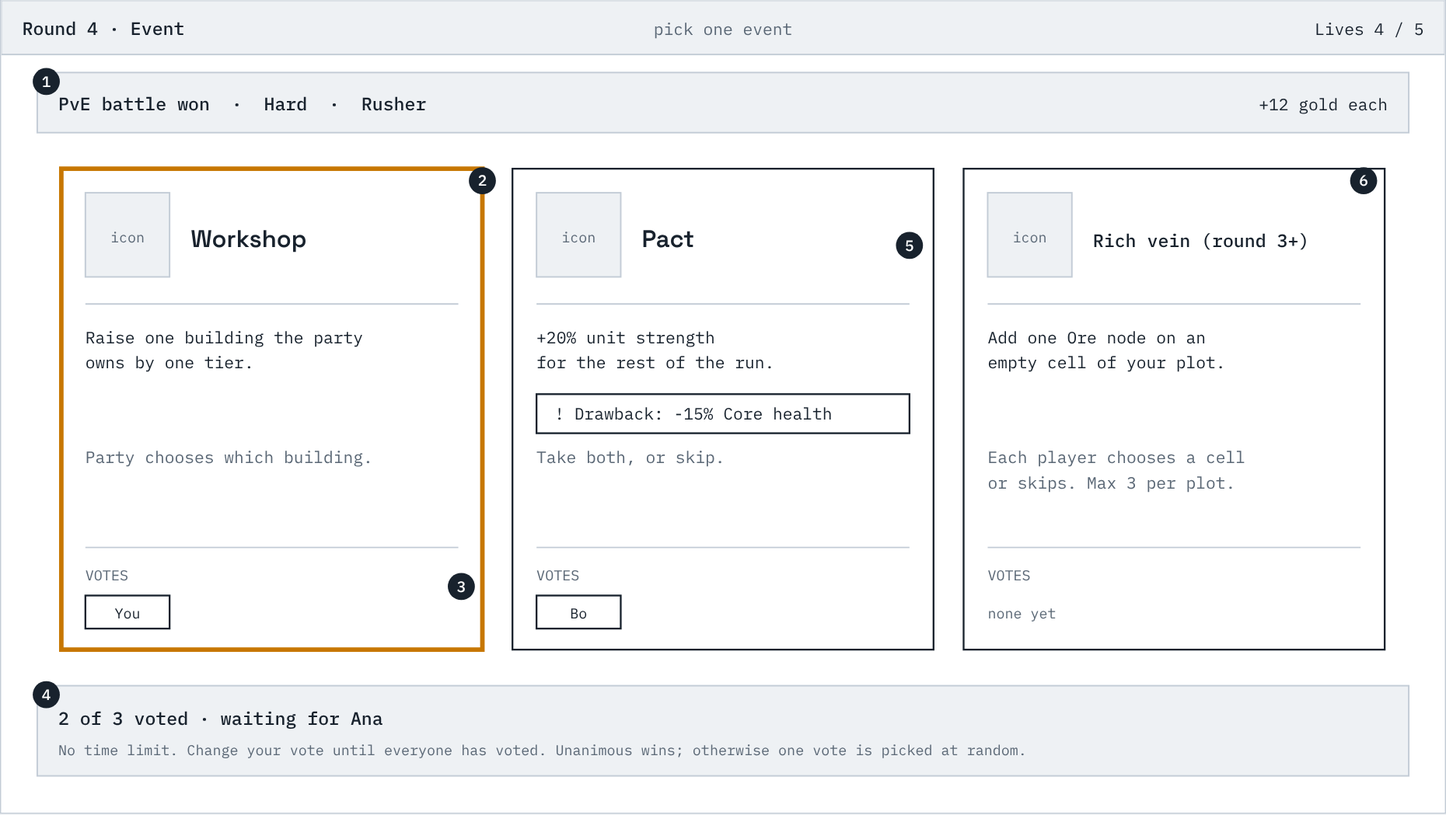
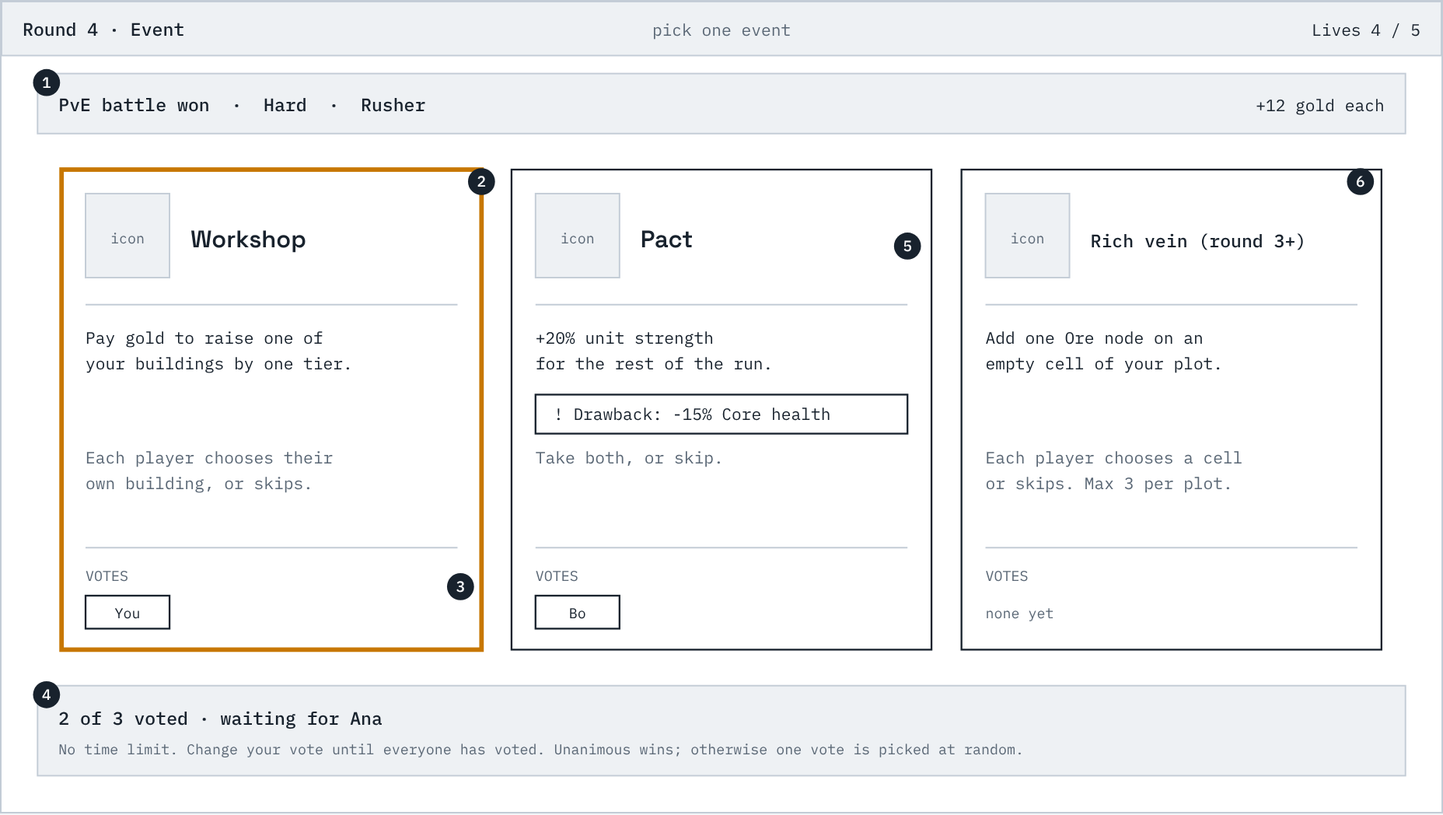
Bring the README, CONTRIBUTING, guides and wireframes up to date
README describes the playable per-player build and links the playtest guide;
CONTRIBUTING lists every package and route; the playtest guide adds the
pillar 6 question; wireframes note where the web build differs.

Claude-Session: https://claude.ai/code/session_01Kd8cMANmxjA6XzD9ptPLZv

diff --git a/docs/wireframes/screens.html b/docs/wireframes/screens.html
@@ -536,7 +536,7 @@ svg text { font-family: var(--font-mono); fill: var(--ink); white-space: pre; }
     R(s, 24, 48, 912, 40, "panel");
     T(s, 38, 73, "PvE battle won  ·  Hard  ·  Rusher", "th"); T(s, 922, 73, "+12 gold each", "t", "end");
     var cards = [
-      ["Workshop", ["Raise one building the party", "owns by one tier."], ["Party chooses which building."], ["You"], true],
+      ["Workshop", ["Pay gold to raise one of", "your buildings by one tier."], ["Each player chooses their", "own building, or skips."], ["You"], true],
       ["Pact", ["+20% unit strength", "for the rest of the run."], ["Take both, or skip."], ["Bo"], false, ["Drawback: -15% Core health"]],
       ["Rich vein (round 3+)", ["Add one Ore node on an", "empty cell of your plot."], ["Each player chooses a cell", "or skips. Max 3 per plot."], [], false]
     ];

diff --git a/CONTRIBUTING.md b/CONTRIBUTING.md
@@ -6,17 +6,21 @@ A pnpm workspace. The packages mirror the layer boundaries in
 [`docs/specs/06-technical-architecture.md`](docs/specs/06-technical-architecture.md)
 (TA-52).
 
-| Path               | Package         | Role                                                                  |
-| ------------------ | --------------- | --------------------------------------------------------------------- |
-| `packages/core`    | `@game/core`    | Pure game logic: simulation, run rules, generators, content loading.  |
-| `packages/session` | `@game/session` | Owns a run in progress; exposes intents and state. Solo only for now. |
-| `packages/web`     | `@game/web`     | Presentation: a static site built with Vite.                          |
-| `packages/content` | `@game/content` | Exports the parsed `content/*.json` files for `web` and tests.        |
-| `packages/tools`   | `@game/tools`   | Node scripts: content validation, source scans. May use Node I/O.     |
-| `content/`         |                 | Data files (see its README).                                          |
-| `schemas/`         |                 | Schemas for those files (see its README).                             |
-| `packages/golden`  | `@game/golden`  | Golden vector runner and update command. May use Node I/O.            |
-| `golden/`          |                 | Golden vectors (JSON). See docs/rules-reference.md.                   |
+| Path               | Package         | Role                                                                 |
+| ------------------ | --------------- | -------------------------------------------------------------------- |
+| `packages/core`    | `@game/core`    | Pure game logic: simulation, run rules, generators, content loading. |
+| `packages/session` | `@game/session` | Owns a run in progress; exposes intents and state. 1 to 4 players.   |
+| `packages/web`     | `@game/web`     | Presentation: a static site built with Vite.                         |
+| `packages/content` | `@game/content` | Exports the parsed `content/*.json` files for `web` and tests.       |
+| `packages/tools`   | `@game/tools`   | Node scripts: content checks, `pnpm sim`, ghosts. May use Node I/O.  |
+| `packages/art`     | `@game/art`     | Generates the sprites in `assets/sprites/` (`pnpm art:build`).       |
+| `content/`         |                 | Data files (see its README).                                         |
+| `schemas/`         |                 | Schemas for those files (see its README).                            |
+| `packages/golden`  | `@game/golden`  | Golden vector runner and update command. May use Node I/O.           |
+| `golden/`          |                 | Golden vectors (JSON). See docs/rules-reference.md.                  |
+| `boards/`          |                 | Reference boards for `pnpm sim` (JSON).                              |
+| `assets/`          |                 | Generated sprites (see its README).                                  |
+| `scripts/`         |                 | `check.mjs`, the `pnpm check` chain.                                 |
 
 `core` and `session` are consumed as TypeScript source (no build step).
 
@@ -26,6 +30,7 @@ Requires Node 22+ and pnpm (the version is pinned in `package.json`).
 
 ```
 pnpm install        # install dependencies
+pnpm --filter @game/web dev   # development server for the web app
 pnpm typecheck      # tsc in every package
 pnpm lint           # eslint, including the layer rule
 pnpm test           # vitest in every package
@@ -33,7 +38,9 @@ pnpm build          # static site into packages/web/dist
 pnpm preview        # serve that build locally (run pnpm build first)
 pnpm smoke          # browser smoke test of the web app (see below)
 pnpm check          # the whole CI chain (see below)
-pnpm golden:update   # regenerate golden/ expected values (deliberate)
+pnpm golden:update  # regenerate golden/ expected values (deliberate)
+pnpm ghosts:update  # regenerate the bundled ghosts (see below)
+pnpm art:build      # regenerate assets/sprites/ (see assets/README.md)
 pnpm format         # prettier --write
 pnpm format:check   # prettier --check
 pnpm validate:content  # check content/ against schemas/ and the core loaders
@@ -151,8 +158,12 @@ and its benchmark are in [`docs/performance-budget.md`](docs/performance-budget.
 `packages/web` is a Preact app (TypeScript JSX, plain CSS with custom
 properties for light and dark) that draws the board on a `<canvas>`. Panels,
 the top bar and menus are ordinary DOM. State lives in plain modules (no
-router or state library). The page you land on is the debug screen
-(`#debug`); real screens register in `src/shell/screens.ts`. The pure camera
+router or state library). The page you land on is the main menu (`#/`); a run
+is at `#run/<id>`, and `#/?players=N` (2 to 4) makes the next new run a party
+that one person plays from one device. Screens register in
+`src/shell/screens.ts`; besides the menu and the run, these are sandbox
+screens for development (`#debug`, `#build`, `#shop`, `#battle`,
+`#sprites`). The pure camera
 and gesture code (`src/board/camera.ts`, `gestures.ts`, `layout.ts`) has unit
 tests that run with `pnpm test`.
 
@@ -268,4 +279,4 @@ from a sub-path and on any other static host.
 - One-time setup for the repository owner: Settings -> Pages -> Build and
   deployment -> Source: "GitHub Actions".
 
-The Build screen (`#build`, `packages/web/src/build/`) is where the layout is edited. It starts a solo run in memory with a fixed seed (change it in the dev strip), asks for a Core position, then offers the action tray (tools and inventory), the "Before you fight" checklist and Selected in the info rail, and the overlays as map rail toggles. Everything it knows about legality comes from `core` (pure operations called on the current state) and every change is an intent through the run controller; `reasons.ts` is the only place reason codes become text.
+The Build screen (`packages/web/src/build/`) is where the layout is edited, in a run (with the shop as a panel over it) and on its dev entry `#build`. The dev entry starts a solo run in memory with a fixed seed (change it in the dev strip) and asks for a Core position. The screen offers the action tray (tools and inventory), the "Before you fight" checklist and Selected in the info rail, and the overlays as map rail toggles. Everything it knows about legality comes from `core` (pure operations called on the current state) and every change is an intent through the run controller; `reasons.ts` is the only place reason codes become text.

diff --git a/docs/playtest-guide.md b/docs/playtest-guide.md
@@ -6,13 +6,15 @@ Open <https://evan-rawson-software.github.io/Coop-autobattler/> in a current des
 
 ## What a run looks like
 
-Place your Core, then repeat each round: build, pick a PvE battle, watch it, pick an event, shop and build again, then fight a PvP battle. Losing a PvP battle costs one life. You start with 5 lives, and the run ends at zero.
+For your first run, choose "Play the tutorial" in the main menu: it is a real run with tips. Place your Core and build, then repeat each round: pick a PvE battle (the game calls it a Stronghold), watch it, pick an event, shop and build, fight a PvP battle (against a Rival party), pick an event, and shop and build again. Losing a PvP battle costs one life; losing a PvE battle costs only the reward. You start with 5 lives, and the run ends at zero.
+
+Each player has their own plot and Core on one battlefield. To try a party of 2 to 4 on one device, open the main menu with `#/?players=2` (or 3, 4) at the end of the address; the run bar then lets you switch which player you act as.
 
 The shop tells you who the PvP opponent is before you ready up. It is either a ghost (a snapshot of another factory, with its owner label) or the boss. Ghosts labelled "Bundled" come with the game; the others are snapshots your own earlier runs left in this browser. Rounds 1 to 6 have bundled ghosts, later rounds meet the boss. The Run over screen lists every opponent and result.
 
 ## What the numbers are meant to do
 
-The shop also offers the Range (trains archers, which shoot from three cells away and can hit flyers) and the Hangar (builds drones, which fly over walls and lakes); their numbers are placeholders, and the bots use them too. From round 4 on, PvE waves also contain archers (about a quarter of a wave's strength) and drones (about a seventh), so build turrets or Ranges: melee units cannot hit drones. A Hangar can be walled in completely: its drones appear next to it and fly out over the walls, so it never blocks Ready (a walled-in Barracks or Range still does). Supply is scarce: one collector fully feeds one building of the same tier (a tier 1 collector gives 0.50 items per second, and a tier 1 Barracks, Overclocker or Armory takes at most that much). Your area has three Ore, three Power and one Flux node, so it can run three Barracks at full speed and no more; to grow after that, raise tiers, use the Overclocker (at most +25% collector speed) or the Armory (+25% to +50% unit health and damage, at most +100% per player), or share through a border link. You earn 9 to 26 gold per round. Threats grow 25% per round, and strongholds have at most 6 turrets per area. A competent build should beat hard PvE through about round 5, find it a gamble in rounds 6 to 8, and meet the round-5 boss at every party size with a fair chance.
+The shop also offers the Range (trains archers, which shoot from three cells away and can hit flyers) and the Hangar (builds drones, which fly over walls and lakes); their numbers are placeholders, and the bots use them too. From round 4 on, PvE waves also contain archers (about a quarter of a wave's strength) and drones (about a seventh), so build turrets or Ranges: melee units cannot hit drones. A Hangar can be walled in completely: its drones appear next to it and fly out over the walls, so it never blocks Ready (a walled-in Barracks or Range still does). Supply is scarce: one collector fully feeds one building of the same tier (a tier 1 collector gives 0.50 items per second, and a tier 1 Barracks, Overclocker or Armory takes at most that much). Your area has three Ore, three Power and one Flux node, so it can run three Barracks at full speed and no more; to grow after that, raise tiers, use the Overclocker (at most +25% collector speed) or the Armory (+25% to +50% unit health and damage, at most +100% per player), or share through a border link. You earn 14 to 31 gold per round (5 at each of the two shops, plus the battle rewards). Threats grow 25% per round, and strongholds have at most 6 turrets per area. A competent build should beat hard PvE through about round 5, find it a gamble in rounds 6 to 8, and meet the round-5 boss at every party size with a fair chance.
 
 ## Refining, the Foundry, Golems and casters (from round 3)
 
@@ -27,7 +29,7 @@ The first time the shop offers a refinery, a one-line hint explains the chain. T
 
 ## Bosses (every PvP battle with no rival party)
 
-When the opponent is a computer-made boss, the Next fight panel of the shop and build screens names it, says in one line what is special about it, and gives one line of counter advice. The boss is fixed before you build, so you can build against it.
+When the opponent is a computer-made boss, the Next fight panel of the shop and build screens names it, says in one line what is special about it, and gives one line of counter advice. The boss is fixed before you build, so you can build against it. Later bosses join from later rounds (Brood from round 3, Bonded from 5, Pylons from 7, Warlord from 9), and Bonded needs a party of two or more.
 
 - Boss: every third wave is a swarm of raiders. Defense against swarms.
 - Brood: each of its Cores bursts out units at 75%, 50% and 25% health (ticks on the Core bar, and a line in the log). Keep defense at home.
@@ -38,7 +40,7 @@ When the opponent is a computer-made boss, the Next fight panel of the shop and 
 ## What to try
 
 - Play at least two runs back to back, and look for your first run's factory in the second.
-- Try each of the three strategies on different runs, and note how they differ.
+- Try each of the three strategies (rush, fortify and ramp, siege) on different runs, and note how they differ.
 - Route resources with long and short conduits, and see what changes.
 - Look at which boss is next, then change your factory to counter it, and see whether the battle goes differently.
 - Look at the opponent's factory during a PvP battle and see why it won or lost.
@@ -54,6 +56,7 @@ Open the `#debug` page (add `#debug` to the address) and use "Next PvP opponent"
 
 - Is routing fun, or a chore? When did it feel good or tedious?
 - Did the three strategies feel different, and did one dominate?
+- In which round did you first have to leave something out, or move something, for lack of space?
 - How long did building take per round, and was that too long or too short?
 - Where did your runs end (round and cause), and did it feel fair?
 - Is a refining chain worth the effort compared with simply building more Barracks?

diff --git a/README.md b/README.md
@@ -1,23 +1,36 @@
 # Coop Autobattler (working title)
 
-A co-op roguelite autobattler for 1–4 players. The party builds one large
-shared factory on a randomly generated map between fights, then watches it
-produce units and defend itself in automated combat
-against a mix of PvE encounters and asynchronous PvP "ghost" parties. PvE difficulty grows
-exponentially, so every run eventually ends in defeat — the question is how far
-you get.
+A co-op roguelite autobattler for 1–4 players, in a theme of arcane industry:
+magic-powered factories, light and charming. Each player has their own plot of
+one continuous, randomly generated battlefield, with their own Core and their
+own factory on it. Between fights each player buys buildings, places them and
+wires them with conduits; neighbours join their factories with **border
+links**, conduits joined at the plot border that carry resources between
+plots. In battle the factories produce units and defend themselves
+automatically, against a mix of PvE encounters and asynchronous PvP "ghost"
+parties. PvE difficulty grows exponentially, so every run eventually ends in
+defeat — the question is how far you get.
 
-The project is in the **specification phase**. Only the repository scaffolding
-for the web proof of concept exists; no game logic is implemented yet.
+The offline **web proof of concept is playable**, and the per-player design
+(own plot and Core, border links) is in. A playtest build of `main` is
+published on GitHub Pages; see the
+[playtest guide](docs/playtest-guide.md) for how to play it and what feedback
+helps.
 
-Plan: (1) an offline, single-player **web proof of concept** for early
-playtesting, (2) a port to **Godot**, (3) co-op and online ghost PvP on
-**Steam**.
+Plan: (1) an offline **web proof of concept** for early playtesting (solo; a
+party of 2 to 4 can be played from one device), (2) a port to **Godot**, (3)
+co-op and online ghost PvP on **Steam**.
 
 ## Development
 
 See [`CONTRIBUTING.md`](CONTRIBUTING.md) for the repository layout, the
-commands, and the layer rule.
+commands, and the layer rule. To play the web build locally:
+
+```
+pnpm install
+pnpm --filter @game/web dev   # development server
+pnpm build && pnpm preview    # or the production build
+```
 
 ## Watch a battle
 
@@ -38,10 +51,10 @@ refined and then broken down into backlog items for coding agents.
 
 | # | Spec | Covers |
 |---|------|--------|
-| 00 | [Vision & pillars](docs/specs/00-vision.md) | What the game is, who it is for, design pillars, scope |
+| 00 | [Vision & pillars](docs/specs/00-vision.md) | What the game is, who it is for, design pillars, scope, theme |
 | 01 | [Run structure](docs/specs/01-run-structure.md) | Core loop, rounds, steps, lives, run end |
-| 02 | [Co-op & party](docs/specs/02-coop-party.md) | 1–4 player model, the shared board, ownership, building together, disconnects |
-| 03 | [Combat](docs/specs/03-combat.md) | The shared factory and battlefield: terrain, resources and conduits, units, in-battle ramp, defenses, opponents |
+| 02 | [Co-op & party](docs/specs/02-coop-party.md) | 1–4 player model, one plot and Core per player, ownership, border links, building together, disconnects |
+| 03 | [Combat](docs/specs/03-combat.md) | The factory and the battlefield: plots, terrain, resources and conduits, units, in-battle ramp, defenses, opponents |
 | 04 | [Encounters & matchmaking](docs/specs/04-encounters-matchmaking.md) | PvE encounters, ghost PvP, snapshot matching, boss fallback |
 | 05 | [Scaling & economy](docs/specs/05-scaling-economy.md) | Exponential PvE scaling, player power curve, economy |
 | 06 | [Technical architecture](docs/specs/06-technical-architecture.md) | Phases (web proof of concept → Godot → Steam multiplayer), Steam as the backend, trust model |

diff --git a/content/README.md b/content/README.md
@@ -2,8 +2,9 @@
 
 Game data files (JSON): buildings, encounter and boss templates, scaling
 constants, and so on. Rules are kept separate from names, descriptions, and
-art. Every file here is validated against a schema in [`../schemas/`](../schemas/).
-Filled by later issues.
+art. Every file here is validated against a schema in [`../schemas/`](../schemas/)
+(`pnpm validate:content`). To register another content file, add a row to
+`packages/tools/src/registry.ts`.
 
 ## Files
 
@@ -13,15 +14,16 @@ Filled by later issues.
 | `terrain.json`         | Natural-feature rules (`ter_*` IDs)                        | `schemas/terrain.schema.json`      |
 | `units.json`           | Unit numbers (`unit_*` IDs), integers only                 | `schemas/units.schema.json`        |
 | `buildings.json`       | Building rules (`bld_*` IDs): kind, footprint, tiers, sides | `schemas/buildings.schema.json`    |
-| `mapgen.json`          | Map generation parameters (board size, nodes, lakes, cliffs) | `schemas/mapgen.schema.json`       |
-| `sim.json`             | Battle clock, flow and breach constants (ticks per second, buffer size, breach costs) | `schemas/sim.schema.json`          |
+| `mapgen.json`          | Map generation parameters (plot size, nodes per plot, lakes, cliffs, neutral zone) | `schemas/mapgen.schema.json`       |
+| `sim.json`             | Battle constants (ticks per second, buffer size, breach costs, aggro and separation, modifier caps, Overload, time limit) | `schemas/sim.schema.json`          |
 | `economy.json`         | Gold, starting kit, shop size, re-roll/sell rules, battle rewards, offer and tier odds | `schemas/economy.schema.json`      |
-| `events.json`          | Event definitions (type, weight, params) and the run modifiers a Shrine offers | `schemas/events.schema.json`       |
-| `threats.json`         | PvE threats: budget curve (SC-1), unit prices, layout parameters, archetype templates | `schemas/threats.schema.json`      |
-| `presentation.en.json` | English names and descriptions for buildings, units, terrain, archetypes, event types and run modifiers, plus the effect-sentence templates, kind labels and "needs" words | `schemas/presentation.schema.json` |
+| `events.json`          | Event definitions (type, weight, params) and the run modifiers a Shrine or a Pact offers | `schemas/events.schema.json`       |
+| `threats.json`         | PvE threats: budget curve (SC-1), unit prices, per-plot limits, ranged mix, layout parameters, archetype and boss templates | `schemas/threats.schema.json`      |
+| `presentation.en.json` | English names and descriptions for buildings, units, terrain, archetypes, event types and run modifiers, plus the effect-sentence templates, kind labels, "needs" words and screen texts | `schemas/presentation.schema.json` |
 
 Rules files hold no display text; the presentation file holds no rules and
-needs exactly one entry per building, unit, and terrain feature. Descriptions
+needs exactly one entry per building, unit, terrain feature, archetype, event
+type and run modifier. Descriptions
 refer to resources as `{res_a}`, which `formatText` in `core` replaces with the
 configured name. In `buildings.json`, sides (`north`, `east`, `south`, `west`)
 describe rotation 0, and each bought building has exactly three tiers. The

diff --git a/docs/wireframes/README.md b/docs/wireframes/README.md
@@ -13,12 +13,26 @@ starting kit, threat pips, "an even chance to double it", "overload begins
 The specs are the source of truth. Where a wireframe and a spec disagree,
 the spec wins and the wireframe should be corrected.
 
-**Most images predate the per-player design (issue #124); 1, 3, 4, 6 and 8
-are redrawn.** The others still show
-one shared board, one Core per side and a vote on the Core position. The text below has been updated to the current design
-(each player has their own plot and Core, builds only there, and can link to
-a neighbour across the plot border; there is no giving); the images and
-`screens.html` are redrawn with the screens themselves.
+The sketches follow the per-player design (issue #124): each player has their
+own plot and Core, builds only there, and can link to a neighbour across the
+plot border; there is no giving. The images are exported from `screens.html`
+and match it.
+
+Some sketches are drawn ahead of the code, and the web proof of concept
+differs from them in places:
+
+- It has no lobby, Join or Settings: the menu starts a solo run (a party of
+  2 to 4 is played from one device with `#/?players=N`), and adds "Play the
+  tutorial" and a short "How a round works".
+- Shop and Build are one screen: the shop opens as a panel over the board.
+  The stash is called the "Inventory", and a building is sold by selecting it
+  and pressing Sell.
+- The battle summary is a result card over the board at the end of playback.
+- The screens call a PvE battle a "Stronghold" battle and a PvP battle a
+  "Rival party" battle; a phase stepper (Set up, Build, Fight, Reward) shows
+  where the round is.
+- The Caravan draft (2b) and the four new buildings (4b, issue #437) are
+  planned, not built.
 
 Order in a run: 5 main menu → 6 Core placement → 4 build → then each round:
 7 PvE choice → 1 battle → 8 summary → 2 event (and 2b to 2d, if the event has a follow-up) → 3 shop + 4 build → PvP
@@ -161,7 +175,7 @@ Where the factory is laid out. Everything of yours except your Core can be moved
 
 ## 4b. Build: new footprints
 
-Four new base buildings (CB-9f, issue #437), with working names. Their shapes make the layout a real decision: a 1×3, a 3×3, a two-piece Tunnel and a turret with a blind spot. The image shows four placement previews on the Build screen. As always, each helps only its owner and goes only in its owner's plot.
+Four planned base buildings (CB-9f, issue #437), with working names. Their shapes make the layout a real decision: a 1×3, a 3×3, a two-piece Tunnel and a turret with a blind spot. The image shows four placement previews on the Build screen. As always, each helps only its owner and goes only in its owner's plot.
 
 ![Build footprints wireframe](4b-build-footprints.png)
 

diff --git a/docs/performance-budget.md b/docs/performance-budget.md
@@ -197,7 +197,7 @@ Resource flow events (`produced` and `delivered`, always equal in count) are a
 bit over half of an economy-heavy log. `unit_attacked` is about a third.
 
 Logs are not saved. The budgets are met with margin: the largest one plot log
-is 38% of its 1 MB budget and the dense tier 3 log is 58% of its 12 MB budget.
+is 38% of its 1 MB budget and the stress tier 3 log is 58% of its 12 MB budget.
 The size is accepted for now.
 
 Coalescing flow events per building is the known option if co-op transport or
@@ -209,7 +209,8 @@ roughly 30 to 40% and would change the golden event log hashes.
 The Battle screen no longer runs `simulateRecord` on the main thread: it asks a
 module Worker (`packages/web/src/sim-worker/`) and shows "Preparing the
 battle" meanwhile. Browser smoke test, Chromium headless, the dense `stress`
-sample (917 units alive at peak; run with `pnpm smoke`, single runs, shared
+sample as it was then (917 units alive at peak; the sample is now smaller,
+about 390, see "Unit budget"; run with `pnpm smoke`, single runs, shared
 machine):
 
 | Measure                                   | Main thread (fallback) | Worker             |
@@ -229,7 +230,7 @@ Transfer: the event log (plain objects) is copied by structured clone, about 30
 ms for the stress battle's log (about 1 to 1.5 MB as JSON). The three typed
 arrays of the record (`coreHp`, `tickStart`) are transferred, not copied. The
 clone cost is roughly linear in the log size, so the largest log in this
-document (5.1 MB, dense tier 3) should take about 100 to 150 ms in total, split
+document (6.9 MB, the stress board with four Cores at tier 3) should take about 100 to 150 ms in total, split
 between the worker (serialising) and the page (deserialising, which is the
 part that blocks); this was estimated, not measured. If it ever matters, send
 the log in chunks of a few thousand events.

diff --git a/packages/session/README.md b/packages/session/README.md
@@ -2,7 +2,8 @@
 
 Owns a run in progress. It is a pure, deterministic step machine over a plain
 JSON `RunState`. It imports `core` only, has no clock, no `Math.random` and no
-I/O, and is written for N players (1 to 4) although the prototype plays solo.
+I/O, and is written for N players (1 to 4). The web prototype plays solo, or a
+local party that one person plays from one device.
 
 ```ts
 const created = createRun({ runId, runVersion, seed, players: ['Ann'], host: 0 }, deps);
@@ -163,7 +164,9 @@ definition's `type` selects an `EventHandler` (`available`, `instantiate`,
 `resolve`, optional `choose`); A handler that can return a follow-up sets
 `canAskFollowUp` and must have `choose` (or `chooseEach`, for a per-player follow-up); a handler that is always available
 (the Windfall) sets `alwaysAvailable`. `defaultEventHandlers` has `workshop`,
-`shrine` and `windfall`. A new type is data plus one handler passed as
+`drill`, `shrine`, `windfall`, `market_day`, `pact`, `rich_vein` and
+`blueprint`; the Workshop, Drill, Rich vein and Blueprint follow-ups are
+per-player. A new type is data plus one handler passed as
 `eventHandlers: { ...defaultEventHandlers, mine }`; the machine is unchanged.
 `createGameDeps` throws when a definition names a type without a handler,
 when a follow-up handler has no `choose`, or when no definition has an

diff --git a/schemas/README.md b/schemas/README.md
@@ -1,4 +1,18 @@
 # schemas
 
 Schemas (JSON Schema) for the data files in [`../content/`](../content/) and
-for other language-neutral formats. Filled by later issues.
+for other language-neutral formats.
+
+- **Content:** one schema per file in `content/` (`buildings`, `economy`,
+  `events`, `mapgen`, `presentation`, `resources`, `sim`, `terrain`,
+  `threats`, `units`). `pnpm validate:content` checks every content file
+  against its schema and the core loaders.
+- **Saved and exchanged formats:** `run-state`, `save`, `ghost-snapshot`,
+  `team-state`, `map`, `neutral-zone`, `threat-profile` and `sim-event`.
+  Changing one of these follows "Versions and saved formats" in
+  `CONTRIBUTING.md`.
+- **Tests:** `golden-vector`, the shape of the files in `golden/`.
+
+A schema covers the shape only. Rules that need the whole state, such as
+placement legality or ghost validation, are checked in code and described in
+`docs/rules-reference.md`.
